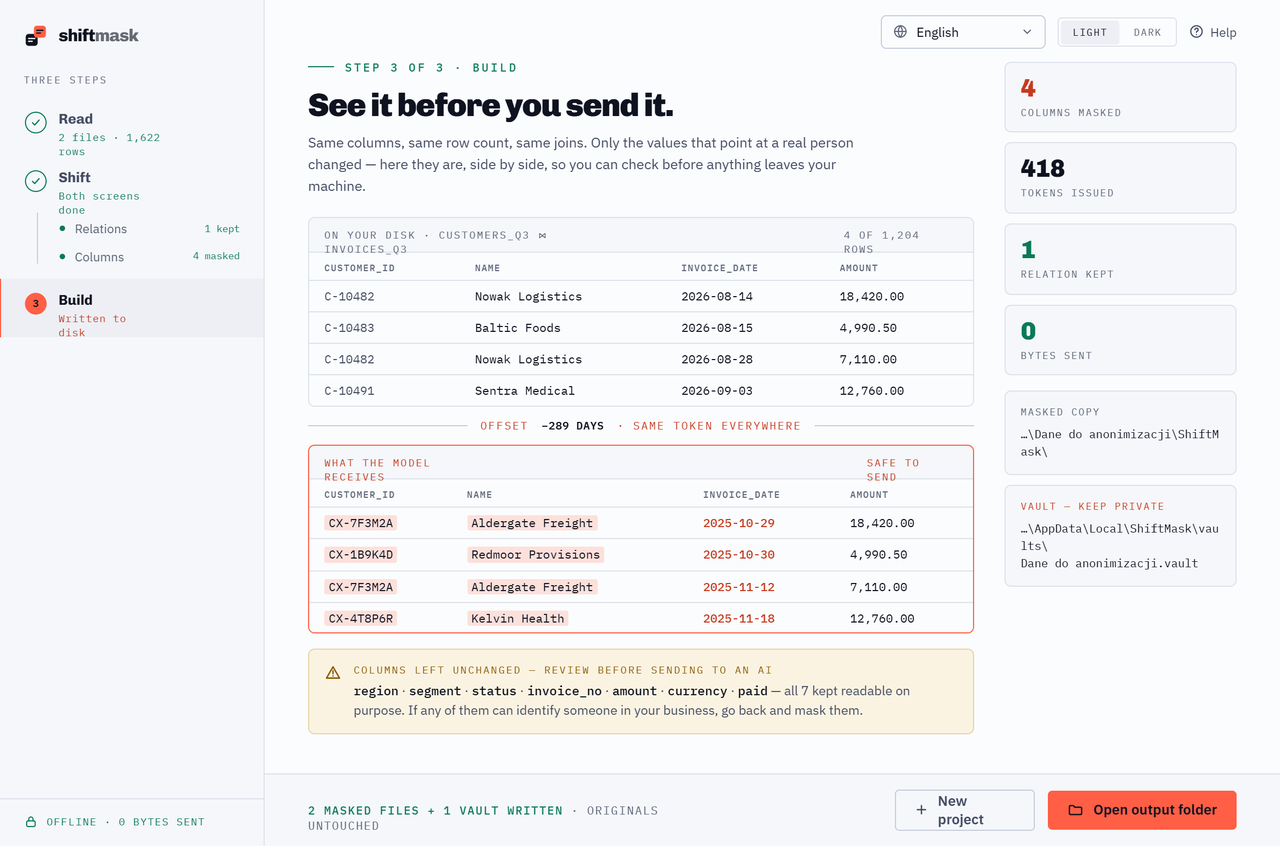
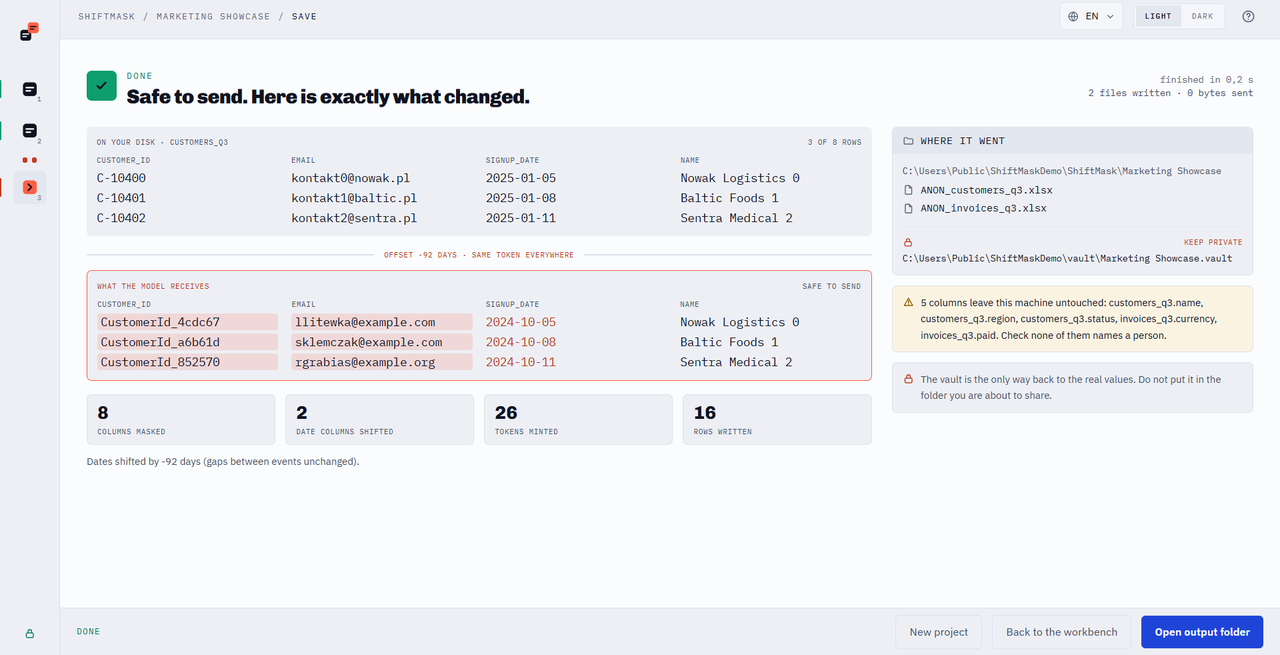
Refresh method-step screenshots with current Konsola wizard UI
Replace step-read/step-shift/step-build with fresh captures from the
live pywebview wizard (light theme), matching the existing alt text.
Update the img width/height attributes to the new images' aspect ratio.

Claude-Session: https://claude.ai/code/session_01T7LVzLzNm3JyykbqPiKqBi

diff --git a/index.html b/index.html
@@ -628,7 +628,7 @@ footer .rights{font-family:var(--f-mono);font-size:11px;letter-spacing:.1em;colo
           <div class="body">
             <h3>Point it at your files</h3>
             <p>Excel workbooks, CSV files or a SQL database. ShiftMask reads the schema and detects primary and foreign keys to map how your tables actually connect. You confirm or correct the map.</p>
-            <div class="rung-shot"><div class="rung-shot-bar"><span></span><span></span><span></span></div><img src="/screens/step-read.png" alt="ShiftMask Read step: drop zone for Excel or CSV files, with files already added and read on this machine" width="1280" height="846" loading="lazy"></div>
+            <div class="rung-shot"><div class="rung-shot-bar"><span></span><span></span><span></span></div><img src="/screens/step-read.png" alt="ShiftMask Read step: drop zone for Excel or CSV files, with files already added and read on this machine" width="1280" height="655" loading="lazy"></div>
           </div>
         </div>
         <div class="rung rise">
@@ -636,7 +636,7 @@ footer .rights{font-family:var(--f-mono);font-size:11px;letter-spacing:.1em;colo
           <div class="body">
             <h3>Move the calendar, mask the rest</h3>
             <p>Every date moves by one project-wide offset. Names, emails and identifiers become generated stand-ins — the same input always yields the same output, so one customer stays one customer across every file.</p>
-            <div class="rung-shot"><div class="rung-shot-bar"><span></span><span></span><span></span></div><img src="/screens/step-shift.png" alt="ShiftMask Shift step: a table of columns showing which are masked, shifted or left unchanged" width="1280" height="846" loading="lazy"></div>
+            <div class="rung-shot"><div class="rung-shot-bar"><span></span><span></span><span></span></div><img src="/screens/step-shift.png" alt="ShiftMask Shift step: a table of columns showing which are masked, shifted or left unchanged" width="1280" height="655" loading="lazy"></div>
           </div>
         </div>
         <div class="rung rise">
@@ -644,7 +644,7 @@ footer .rights{font-family:var(--f-mono);font-size:11px;letter-spacing:.1em;colo
           <div class="body">
             <h3>Hand the copy to a model</h3>
             <p>Send the safe package to ChatGPT, Claude, Gemini or a coding agent. You get back a dashboard, report or app. Point that code at your real database offline and it runs unchanged.</p>
-            <div class="rung-shot"><div class="rung-shot-bar"><span></span><span></span><span></span></div><img src="/screens/step-build.png" alt="ShiftMask Build step: original data and the masked copy shown side by side before anything is sent to a model" width="1280" height="846" loading="lazy"></div>
+            <div class="rung-shot"><div class="rung-shot-bar"><span></span><span></span><span></span></div><img src="/screens/step-build.png" alt="ShiftMask Build step: original data and the masked copy shown side by side before anything is sent to a model" width="1280" height="655" loading="lazy"></div>
           </div>
         </div>
       </div>
